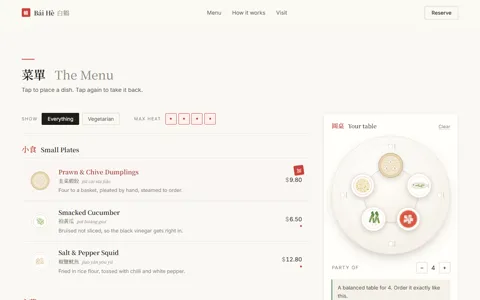
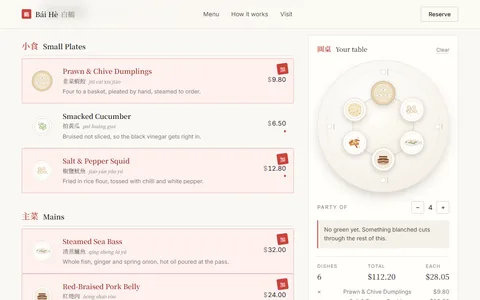
Re-shoot the Bai He and AMICUS gallery thumbnails
Both were screenshots of page tops that are light and text-dense, so at
480px they turned to mush next to the photo-led cards.

AMICUS now uses its attorney section: four portraits under "Precise on
paper. Warm in person." — faces and display type that survive the
downscale. Bai He now shows the table actually set, with six plates on
it and the chosen rows lit, which is both more legible and the thing its
card copy promises; it is shot at a tighter viewport so the type holds up.

Alt text updated to match the new AMICUS frame.

diff --git a/index.html b/index.html
@@ -923,7 +923,7 @@
     <a class="card reveal" href="templates/law-firm/index.html">
       <div class="preview preview--shot">
         <div class="chrome"><i></i><i></i><i></i></div>
-        <img src="img/law-firm-sm.webp" alt="The AMICUS homepage: a warm ivory hero reading &lsquo;You don&rsquo;t have to face this alone&rsquo; beside an intake form." width="480" height="300" loading="lazy" decoding="async">
+        <img src="img/law-firm-sm.webp" alt="The AMICUS attorney page: four portraits under the words &lsquo;Precise on paper. Warm in person.&rsquo;" width="480" height="300" loading="lazy" decoding="async">
       </div>
       <div class="card-body">
         <span class="tag">Law Firm / Services</span>
